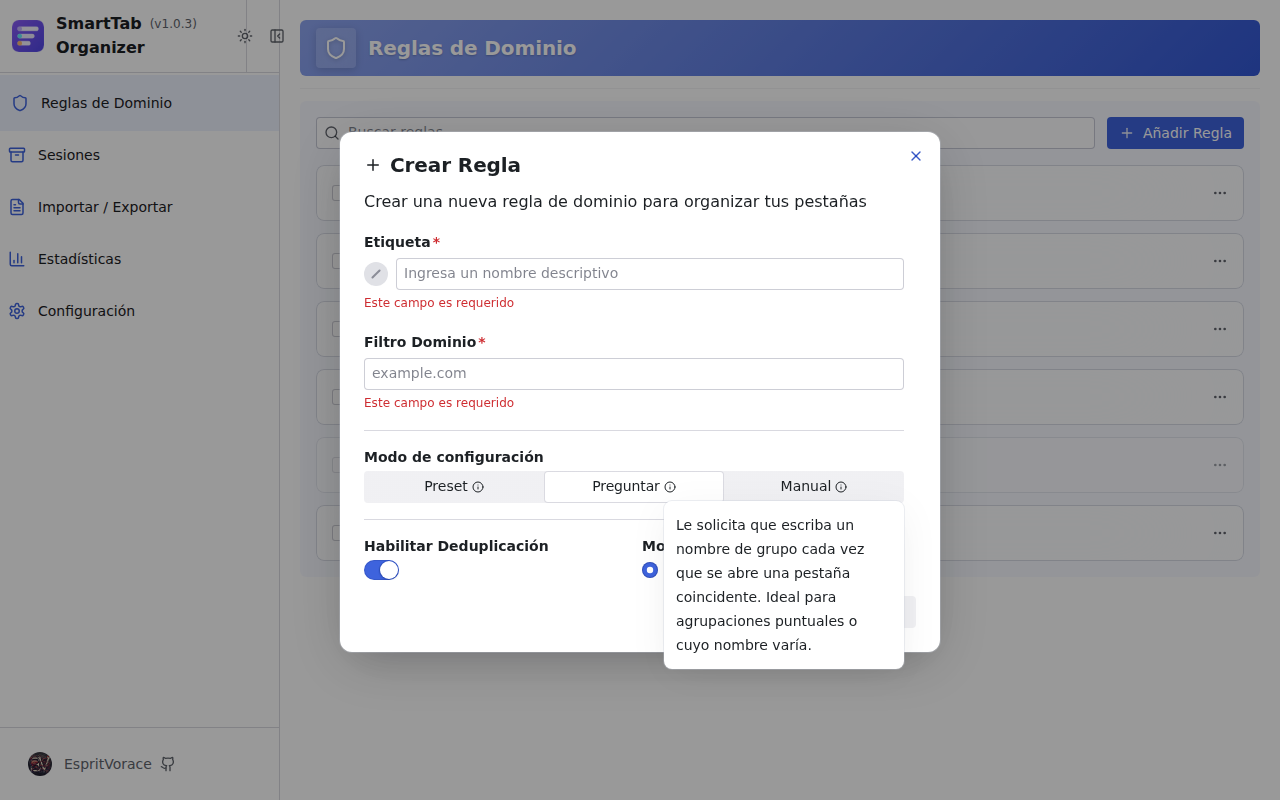
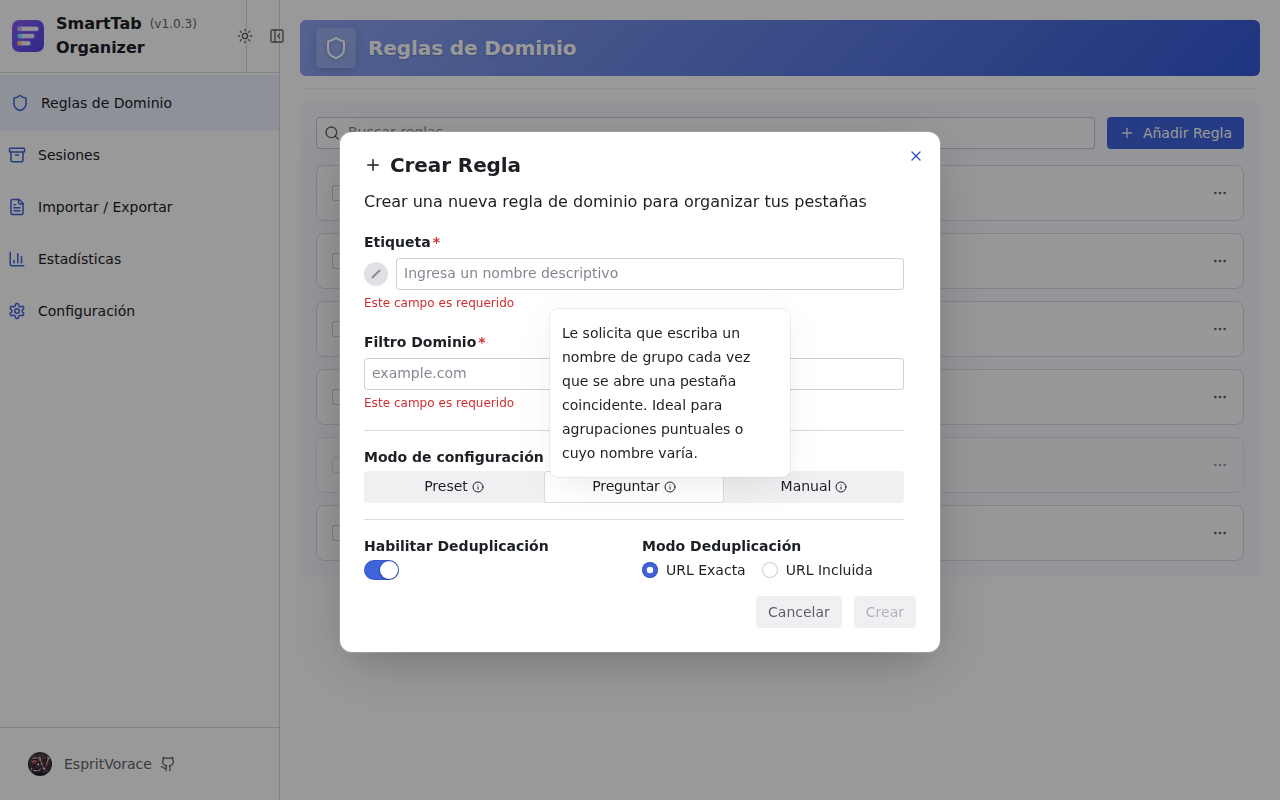
Fix HoverCard position: side=top, align=end for Manual mode
Open all config-mode tooltips above the segmented control (side="top",
sideOffset=4). Use align="end" for the Manual item so the card extends
leftward instead of being clipped on the right side of the dialog.
Regenerated all 18 rules-create-* screenshots (42/42 pass).

https://claude.ai/code/session_01V1XPEdsjrKCo2cgyjYupD3

Changed region(s): [[0.5, 0.625, 0.7188, 0.8438], [0.4375, 0.4062, 0.5938, 0.5938]]

diff --git a/src/components/Core/DomainRule/DomainRuleFormModal.tsx b/src/components/Core/DomainRule/DomainRuleFormModal.tsx
@@ -379,7 +379,13 @@ export function DomainRuleFormModal({
                               <Info size={12} aria-hidden="true" />
                             </Box>
                           </HoverCard.Trigger>
-                          <HoverCard.Content size="1" maxWidth="240px">
+                          <HoverCard.Content
+                            size="1"
+                            maxWidth="240px"
+                            side="top"
+                            sideOffset={4}
+                            align={mode === 'manual' ? 'end' : 'center'}
+                          >
                             <Text size="2">
                               {getMessage(({ preset: 'configModePresetHelp', ask: 'configModeAskHelp', manual: 'configModeManualHelp' } as const)[mode])}
                             </Text>
